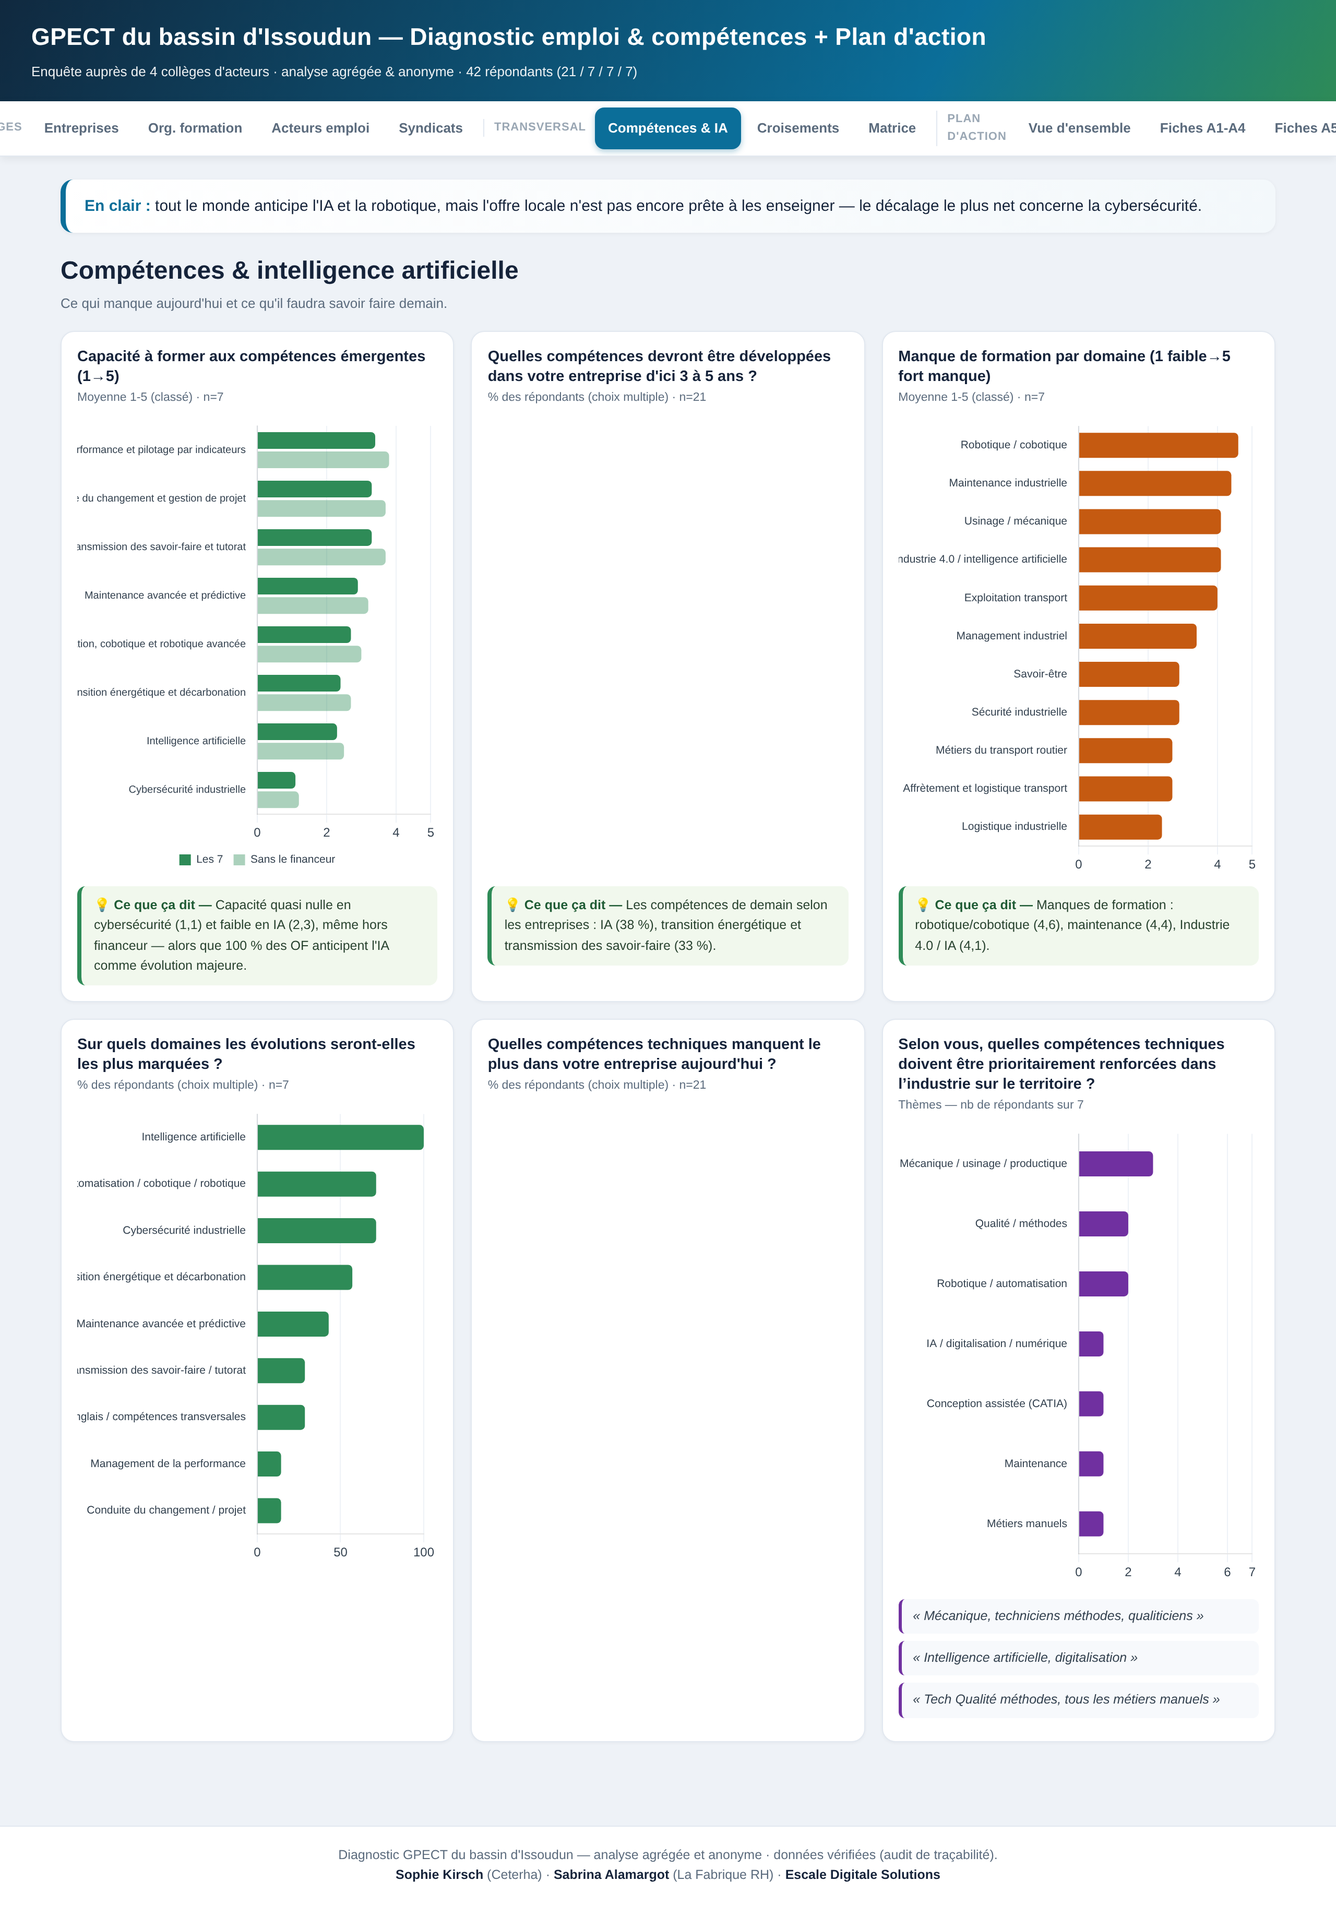
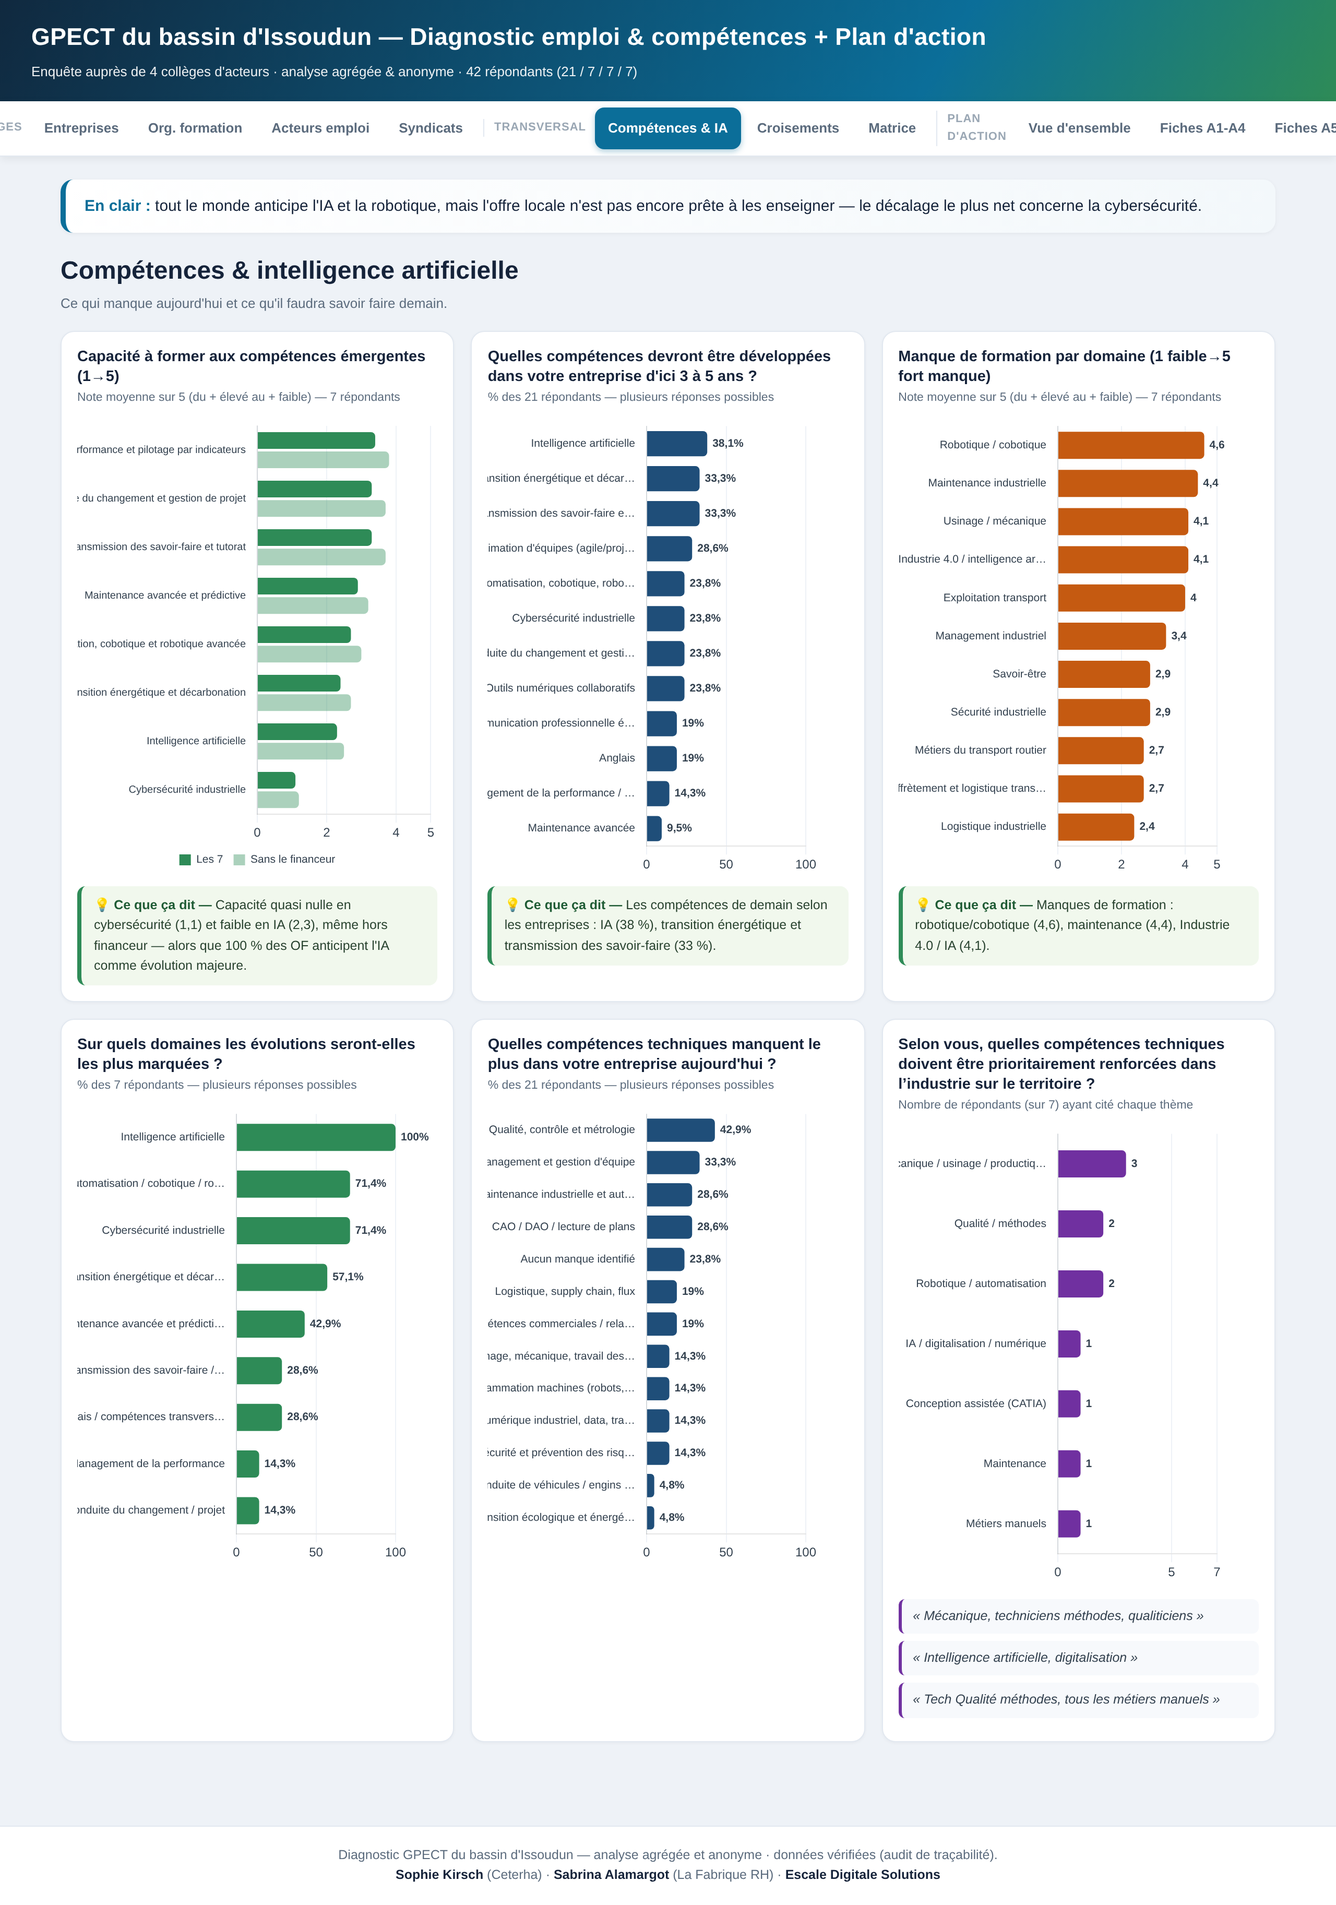
Fix critique dashboard : charts vides + lisibilité
- BUG racine corrigé : id de canvas non uniques entre pages -> collision
  getElementById -> certains graphiques se dessinaient sur le mauvais canvas
  et laissaient des cartes vides. Id désormais uniques (compteur global).
- Lisibilité : valeurs affichées au bout de chaque barre (+ suffixe %),
  dénominateurs explicites partout ("note moyenne sur 5", "% des 21
  répondants", "sur 7"), effectifs dans les légendes des camemberts,
  libellés longs tronqués proprement, tooltips avec intitulé complet
- Contrôle automatique : 0 canvas vide sur les 13 pages

Claude-Session: https://claude.ai/code/session_01DFsapZAeqAuiLmYAQ4kDCJ

diff --git a/analyse/dashboard/dashboard_gpect_issoudun_final.html b/analyse/dashboard/dashboard_gpect_issoudun_final.html
@@ -122,14 +122,19 @@ function Q(c,k){return (SV.donnees_colleges[c]||{}).questions[k];}
 function lbl(s){s=String(s);for(let i=0;i<2;i++)s=s.replace(/^\s*Q[0-9][0-9.]*[a-z]?\s*[—–-]\s*/,'');return s;}
 function shorten(s,n){s=String(s);return s.length>(n||34)?s.slice(0,(n||34)-1)+'…':s;}
 function dim(n){return SV.dimensions_partagees.find(d=>d.dimension.toLowerCase().includes(n));}
-let CQ=[];
+let CQ=[];let _n=0;const nid=()=>'cv'+(++_n);
 function chCanvas(id,tall){return `<div class="chartbox${tall?' tall':''}"><canvas id="${id}"></canvas></div>`;}
+// plugin : affiche la valeur au bout de chaque barre (lisibilité)
+const valLabel={id:'valLabel',afterDatasetsDraw(ch){const ds=ch.data.datasets;if(ds.length>1)return;const ctx=ch.ctx;const meta=ch.getDatasetMeta(0);ctx.save();ctx.font='bold 10.5px -apple-system,sans-serif';ctx.fillStyle='#33414f';
+ meta.data.forEach((bar,i)=>{const v=ds[0].data[i];if(v==null)return;const suf=ch.$suffix||'';
+  if(ch.options.indexAxis==='y'){ctx.textAlign='left';ctx.textBaseline='middle';ctx.fillText(fmt(v)+suf,bar.x+5,bar.y);}
+  else{ctx.textAlign='center';ctx.textBaseline='bottom';ctx.fillText(fmt(v)+suf,bar.x,bar.y-4);}});ctx.restore();}};
 function card(t,nt,body,cm,cls){return `<div class="card ${cls||''}"><h3>${t}</h3>${nt?`<p class="note">${nt}</p>`:''}${body}${cm?`<div class="lec"><b>💡 Ce que ça dit —</b> ${cm}</div>`:''}</div>`;}
 function metricCard(num,lab,small){return `<div class="card metric"><div class="num">${num}</div><div class="lab">${lab}</div>${small?`<small>${small}</small>`:''}</div>`;}
 function uid(c,k){return 'cv_'+c+'_'+k.replace(/[^a-z0-9]/gi,'');}
 // charts
-function hbar(id,labels,data,color,max){new Chart(document.getElementById(id),{type:'bar',data:{labels,datasets:[{data,backgroundColor:color,borderRadius:4,maxBarThickness:24}]},options:{indexAxis:'y',responsive:true,maintainAspectRatio:false,scales:{x:{beginAtZero:true,max:max||undefined,grid:{color:'#eef2f7'}},y:{grid:{display:false},ticks:{autoSkip:false,font:{size:10.5}}}},plugins:{tooltip:{callbacks:{label:c=>' '+fmt(c.parsed.x)}}}}});}
-function vbar(id,labels,data,colors,max){new Chart(document.getElementById(id),{type:'bar',data:{labels,datasets:[{data,backgroundColor:colors,borderRadius:5,maxBarThickness:64}]},options:{responsive:true,maintainAspectRatio:false,scales:{y:{beginAtZero:true,max:max||5,grid:{color:'#eef2f7'}},x:{grid:{display:false}}},plugins:{tooltip:{callbacks:{label:c=>' '+fmt(c.parsed.y)}}}}});}
+function hbar(id,labels,data,color,max,suf){const ch=new Chart(document.getElementById(id),{type:'bar',data:{labels,datasets:[{data,backgroundColor:color,borderRadius:4,maxBarThickness:26}]},options:{indexAxis:'y',responsive:true,maintainAspectRatio:false,layout:{padding:{right:40}},scales:{x:{beginAtZero:true,max:max||undefined,grid:{color:'#eef2f7'}},y:{grid:{display:false},ticks:{autoSkip:false,font:{size:10.5},callback:function(v){const l=this.getLabelForValue(v);return l.length>32?l.slice(0,31)+'…':l;}}}},plugins:{tooltip:{callbacks:{title:items=>items[0].label,label:c=>' '+fmt(c.parsed.x)+(suf||'')}}}},plugins:[valLabel]});ch.$suffix=suf||'';ch.update();}
+function vbar(id,labels,data,colors,max,suf){const ch=new Chart(document.getElementById(id),{type:'bar',data:{labels,datasets:[{data,backgroundColor:colors,borderRadius:5,maxBarThickness:70}]},options:{responsive:true,maintainAspectRatio:false,layout:{padding:{top:18}},scales:{y:{beginAtZero:true,max:max||5,grid:{color:'#eef2f7'}},x:{grid:{display:false}}},plugins:{tooltip:{callbacks:{label:c=>' '+fmt(c.parsed.y)+(suf||'')}}}},plugins:[valLabel]});ch.$suffix=suf||'';ch.update();}
 function dough(id,labels,data,colors){new Chart(document.getElementById(id),{type:'doughnut',data:{labels,datasets:[{data,backgroundColor:colors,borderWidth:2,borderColor:'#fff'}]},options:{responsive:true,maintainAspectRatio:false,cutout:'56%',plugins:{legend:{display:true,position:'bottom',labels:{boxWidth:11,font:{size:10.5}}},tooltip:{callbacks:{label:c=>' '+c.label+' : '+c.parsed}}}}});}
 function radar(id,labels,data,col){new Chart(document.getElementById(id),{type:'radar',data:{labels,datasets:[{data,backgroundColor:col+'2e',borderColor:col,borderWidth:2,pointBackgroundColor:col,pointRadius:3}]},options:{responsive:true,maintainAspectRatio:false,scales:{r:{min:0,max:5,ticks:{stepSize:1,font:{size:9}},pointLabels:{font:{size:9.5}}}},plugins:{tooltip:{callbacks:{label:c=>' '+fmt(c.parsed.r)}}}}});}
 function battChart(id,a,col){const sf=a[0]&&a[0].sans_financeur;
@@ -139,21 +144,21 @@ function verbList(arr,n){const sk=/^(ras|na|n\/a|ne sait pas|non renseign|pas de
  const v=(arr||[]).filter(x=>x&&!sk.test(x.trim())&&x.trim().length>14).slice(0,n);
  return v.length?('<div style="margin-top:8px">'+v.map(x=>`<div class="verb">« ${x} »</div>`).join('')+'</div>'):'';}
 // auto render by type
-function auto(c,k){const d=Q(c,k);if(!d)return '';const cm=COMMENTS[c+'|'+k]||'';const t=d.type,id=uid(c,k),col=COL[c],title=lbl(d.intitule);
- if(t==='echelle_1_5'){const sf=d.sans_financeur?`<br>sans le financeur : <b>${fmt(d.sans_financeur.moyenne)}</b> (n=${d.sans_financeur.n})`:'';
-   return card(title,'Échelle de 1 à 5',`<div class="bigrow"><div class="big">${fmt(d.moyenne)}<span>/5</span></div><div class="bigmeta">médiane ${fmt(d.mediane)} · min ${d.min} · max ${d.max}<br>n=${d.n}${sf}</div></div>`,cm);}
- if(t==='numerique'){const s2=d.sans_plus_gros?`<br>sans le plus gros employeur : <b>${fmt(d.sans_plus_gros.somme)}</b> (méd. ${fmt(d.sans_plus_gros.mediane)})`:'';
-   const nn=d.n_non_numerique_exclus?` · ${d.n_non_numerique_exclus} non chiffrable(s)`:'';
-   return card(title,'Numérique',`<div class="bigrow"><div class="big">${fmt(d.somme)}</div><div class="bigmeta">total · médiane ${fmt(d.mediane)} · n=${d.n}${nn}${s2}</div></div>`,cm);}
- if(t==='choix_unique'){const m=d.modalites;CQ.push(()=>dough(id,m.map(x=>shorten(x.modalite,30)),m.map(x=>x.n),PAL));
-   return card(title,'Répartition · n='+d.n_repondants,chCanvas(id),cm);}
- if(t==='multi_select'){const a=d.modalites.filter(x=>x.n>0);CQ.push(()=>hbar(id,a.map(x=>x.modalite),a.map(x=>x.pct_repondants),col,100));
-   return card(title,'% des répondants (choix multiple) · n='+d.n_repondants,chCanvas(id,a.length>6),cm);}
+function auto(c,k){const d=Q(c,k);if(!d)return '';const cm=COMMENTS[c+'|'+k]||'';const t=d.type,id=nid(),col=COL[c],title=lbl(d.intitule);
+ if(t==='echelle_1_5'){const sf=d.sans_financeur?`<br>sans le financeur : <b>${fmt(d.sans_financeur.moyenne)}</b>/5 (n=${d.sans_financeur.n})`:'';
+   return card(title,'Note moyenne sur 5',`<div class="bigrow"><div class="big">${fmt(d.moyenne)}<span>/5</span></div><div class="bigmeta">médiane ${fmt(d.mediane)} · mini ${d.min} · maxi ${d.max}<br>${d.n} répondants${sf}</div></div>`,cm);}
+ if(t==='numerique'){const s2=d.sans_plus_gros?`<br>sans le plus gros employeur : <b>${fmt(d.sans_plus_gros.somme)}</b> (médiane ${fmt(d.sans_plus_gros.mediane)})`:'';
+   const nn=d.n_non_numerique_exclus?` · ${d.n_non_numerique_exclus} réponse(s) non chiffrable(s)`:'';
+   return card(title,'Total déclaré',`<div class="bigrow"><div class="big">${fmt(d.somme)}</div><div class="bigmeta">total cumulé · médiane ${fmt(d.mediane)} · ${d.n} réponses${nn}${s2}</div></div>`,cm);}
+ if(t==='choix_unique'){const m=d.modalites;CQ.push(()=>dough(id,m.map(x=>shorten(x.modalite,30)+' ('+x.n+')'),m.map(x=>x.n),PAL));
+   return card(title,'Répartition des '+d.n_repondants+' réponses',chCanvas(id),cm);}
+ if(t==='multi_select'){const a=d.modalites.filter(x=>x.n>0);CQ.push(()=>hbar(id,a.map(x=>x.modalite),a.map(x=>x.pct_repondants),col,100,'%'));
+   return card(title,'% des '+d.n_repondants+' répondants — plusieurs réponses possibles',chCanvas(id,a.length>6),cm);}
  if(t==='batterie_echelle_1_5'){const a=(d.classement_par_moyenne||d.items);CQ.push(()=>battChart(id,a,col));
-   return card(title,'Moyenne 1-5 (classé) · n='+(a[0]?a[0].n:''),chCanvas(id,true),cm);}
+   return card(title,'Note moyenne sur 5 (du + élevé au + faible) — '+(a[0]?a[0].n:'')+' répondants',chCanvas(id,true),cm);}
  if(t==='texte_libre_code'){const a=d.themes.filter(x=>x.n>0);CQ.push(()=>hbar(id,a.map(x=>x.theme),a.map(x=>x.n),col,d.n_repondants));
-   return card(title,'Thèmes — nb de répondants sur '+d.n_repondants,chCanvas(id,a.length>6)+verbList(d.verbatims_anonymises,3),cm);}
- if(t==='texte_libre'){const vb=verbList(d.verbatims_anonymises,6);if(!vb&&!cm)return '';return card(title,'Verbatims anonymisés · n='+d.n_repondants,vb||'',cm);}
+   return card(title,'Nombre de répondants (sur '+d.n_repondants+') ayant cité chaque thème',chCanvas(id,a.length>6)+verbList(d.verbatims_anonymises,3),cm);}
+ if(t==='texte_libre'){const vb=verbList(d.verbatims_anonymises,6);if(!vb&&!cm)return '';return card(title,'Verbatims anonymisés · '+d.n_repondants+' réponses',vb||'',cm);}
  return '';}
 // pyramide entreprises (avec/sans Safran)
 function pyrCard(){const p=Q('entreprises','Q4.1_pyramide');const id='cv_pyr';

diff --git a/analyse/scripts/18_build_dashboard_final.py b/analyse/scripts/18_build_dashboard_final.py
@@ -353,14 +353,19 @@ function Q(c,k){return (SV.donnees_colleges[c]||{}).questions[k];}
 function lbl(s){s=String(s);for(let i=0;i<2;i++)s=s.replace(/^\s*Q[0-9][0-9.]*[a-z]?\s*[—–-]\s*/,'');return s;}
 function shorten(s,n){s=String(s);return s.length>(n||34)?s.slice(0,(n||34)-1)+'…':s;}
 function dim(n){return SV.dimensions_partagees.find(d=>d.dimension.toLowerCase().includes(n));}
-let CQ=[];
+let CQ=[];let _n=0;const nid=()=>'cv'+(++_n);
 function chCanvas(id,tall){return `<div class="chartbox${tall?' tall':''}"><canvas id="${id}"></canvas></div>`;}
+// plugin : affiche la valeur au bout de chaque barre (lisibilité)
+const valLabel={id:'valLabel',afterDatasetsDraw(ch){const ds=ch.data.datasets;if(ds.length>1)return;const ctx=ch.ctx;const meta=ch.getDatasetMeta(0);ctx.save();ctx.font='bold 10.5px -apple-system,sans-serif';ctx.fillStyle='#33414f';
+ meta.data.forEach((bar,i)=>{const v=ds[0].data[i];if(v==null)return;const suf=ch.$suffix||'';
+  if(ch.options.indexAxis==='y'){ctx.textAlign='left';ctx.textBaseline='middle';ctx.fillText(fmt(v)+suf,bar.x+5,bar.y);}
+  else{ctx.textAlign='center';ctx.textBaseline='bottom';ctx.fillText(fmt(v)+suf,bar.x,bar.y-4);}});ctx.restore();}};
 function card(t,nt,body,cm,cls){return `<div class="card ${cls||''}"><h3>${t}</h3>${nt?`<p class="note">${nt}</p>`:''}${body}${cm?`<div class="lec"><b>💡 Ce que ça dit —</b> ${cm}</div>`:''}</div>`;}
 function metricCard(num,lab,small){return `<div class="card metric"><div class="num">${num}</div><div class="lab">${lab}</div>${small?`<small>${small}</small>`:''}</div>`;}
 function uid(c,k){return 'cv_'+c+'_'+k.replace(/[^a-z0-9]/gi,'');}
 // charts
-function hbar(id,labels,data,color,max){new Chart(document.getElementById(id),{type:'bar',data:{labels,datasets:[{data,backgroundColor:color,borderRadius:4,maxBarThickness:24}]},options:{indexAxis:'y',responsive:true,maintainAspectRatio:false,scales:{x:{beginAtZero:true,max:max||undefined,grid:{color:'#eef2f7'}},y:{grid:{display:false},ticks:{autoSkip:false,font:{size:10.5}}}},plugins:{tooltip:{callbacks:{label:c=>' '+fmt(c.parsed.x)}}}}});}
-function vbar(id,labels,data,colors,max){new Chart(document.getElementById(id),{type:'bar',data:{labels,datasets:[{data,backgroundColor:colors,borderRadius:5,maxBarThickness:64}]},options:{responsive:true,maintainAspectRatio:false,scales:{y:{beginAtZero:true,max:max||5,grid:{color:'#eef2f7'}},x:{grid:{display:false}}},plugins:{tooltip:{callbacks:{label:c=>' '+fmt(c.parsed.y)}}}}});}
+function hbar(id,labels,data,color,max,suf){const ch=new Chart(document.getElementById(id),{type:'bar',data:{labels,datasets:[{data,backgroundColor:color,borderRadius:4,maxBarThickness:26}]},options:{indexAxis:'y',responsive:true,maintainAspectRatio:false,layout:{padding:{right:40}},scales:{x:{beginAtZero:true,max:max||undefined,grid:{color:'#eef2f7'}},y:{grid:{display:false},ticks:{autoSkip:false,font:{size:10.5},callback:function(v){const l=this.getLabelForValue(v);return l.length>32?l.slice(0,31)+'…':l;}}}},plugins:{tooltip:{callbacks:{title:items=>items[0].label,label:c=>' '+fmt(c.parsed.x)+(suf||'')}}}},plugins:[valLabel]});ch.$suffix=suf||'';ch.update();}
+function vbar(id,labels,data,colors,max,suf){const ch=new Chart(document.getElementById(id),{type:'bar',data:{labels,datasets:[{data,backgroundColor:colors,borderRadius:5,maxBarThickness:70}]},options:{responsive:true,maintainAspectRatio:false,layout:{padding:{top:18}},scales:{y:{beginAtZero:true,max:max||5,grid:{color:'#eef2f7'}},x:{grid:{display:false}}},plugins:{tooltip:{callbacks:{label:c=>' '+fmt(c.parsed.y)+(suf||'')}}}},plugins:[valLabel]});ch.$suffix=suf||'';ch.update();}
 function dough(id,labels,data,colors){new Chart(document.getElementById(id),{type:'doughnut',data:{labels,datasets:[{data,backgroundColor:colors,borderWidth:2,borderColor:'#fff'}]},options:{responsive:true,maintainAspectRatio:false,cutout:'56%',plugins:{legend:{display:true,position:'bottom',labels:{boxWidth:11,font:{size:10.5}}},tooltip:{callbacks:{label:c=>' '+c.label+' : '+c.parsed}}}}});}
 function radar(id,labels,data,col){new Chart(document.getElementById(id),{type:'radar',data:{labels,datasets:[{data,backgroundColor:col+'2e',borderColor:col,borderWidth:2,pointBackgroundColor:col,pointRadius:3}]},options:{responsive:true,maintainAspectRatio:false,scales:{r:{min:0,max:5,ticks:{stepSize:1,font:{size:9}},pointLabels:{font:{size:9.5}}}},plugins:{tooltip:{callbacks:{label:c=>' '+fmt(c.parsed.r)}}}}});}
 function battChart(id,a,col){const sf=a[0]&&a[0].sans_financeur;
@@ -370,21 +375,21 @@ function verbList(arr,n){const sk=/^(ras|na|n\/a|ne sait pas|non renseign|pas de
  const v=(arr||[]).filter(x=>x&&!sk.test(x.trim())&&x.trim().length>14).slice(0,n);
  return v.length?('<div style="margin-top:8px">'+v.map(x=>`<div class="verb">« ${x} »</div>`).join('')+'</div>'):'';}
 // auto render by type
-function auto(c,k){const d=Q(c,k);if(!d)return '';const cm=COMMENTS[c+'|'+k]||'';const t=d.type,id=uid(c,k),col=COL[c],title=lbl(d.intitule);
- if(t==='echelle_1_5'){const sf=d.sans_financeur?`<br>sans le financeur : <b>${fmt(d.sans_financeur.moyenne)}</b> (n=${d.sans_financeur.n})`:'';
-   return card(title,'Échelle de 1 à 5',`<div class="bigrow"><div class="big">${fmt(d.moyenne)}<span>/5</span></div><div class="bigmeta">médiane ${fmt(d.mediane)} · min ${d.min} · max ${d.max}<br>n=${d.n}${sf}</div></div>`,cm);}
- if(t==='numerique'){const s2=d.sans_plus_gros?`<br>sans le plus gros employeur : <b>${fmt(d.sans_plus_gros.somme)}</b> (méd. ${fmt(d.sans_plus_gros.mediane)})`:'';
-   const nn=d.n_non_numerique_exclus?` · ${d.n_non_numerique_exclus} non chiffrable(s)`:'';
-   return card(title,'Numérique',`<div class="bigrow"><div class="big">${fmt(d.somme)}</div><div class="bigmeta">total · médiane ${fmt(d.mediane)} · n=${d.n}${nn}${s2}</div></div>`,cm);}
- if(t==='choix_unique'){const m=d.modalites;CQ.push(()=>dough(id,m.map(x=>shorten(x.modalite,30)),m.map(x=>x.n),PAL));
-   return card(title,'Répartition · n='+d.n_repondants,chCanvas(id),cm);}
- if(t==='multi_select'){const a=d.modalites.filter(x=>x.n>0);CQ.push(()=>hbar(id,a.map(x=>x.modalite),a.map(x=>x.pct_repondants),col,100));
-   return card(title,'% des répondants (choix multiple) · n='+d.n_repondants,chCanvas(id,a.length>6),cm);}
+function auto(c,k){const d=Q(c,k);if(!d)return '';const cm=COMMENTS[c+'|'+k]||'';const t=d.type,id=nid(),col=COL[c],title=lbl(d.intitule);
+ if(t==='echelle_1_5'){const sf=d.sans_financeur?`<br>sans le financeur : <b>${fmt(d.sans_financeur.moyenne)}</b>/5 (n=${d.sans_financeur.n})`:'';
+   return card(title,'Note moyenne sur 5',`<div class="bigrow"><div class="big">${fmt(d.moyenne)}<span>/5</span></div><div class="bigmeta">médiane ${fmt(d.mediane)} · mini ${d.min} · maxi ${d.max}<br>${d.n} répondants${sf}</div></div>`,cm);}
+ if(t==='numerique'){const s2=d.sans_plus_gros?`<br>sans le plus gros employeur : <b>${fmt(d.sans_plus_gros.somme)}</b> (médiane ${fmt(d.sans_plus_gros.mediane)})`:'';
+   const nn=d.n_non_numerique_exclus?` · ${d.n_non_numerique_exclus} réponse(s) non chiffrable(s)`:'';
+   return card(title,'Total déclaré',`<div class="bigrow"><div class="big">${fmt(d.somme)}</div><div class="bigmeta">total cumulé · médiane ${fmt(d.mediane)} · ${d.n} réponses${nn}${s2}</div></div>`,cm);}
+ if(t==='choix_unique'){const m=d.modalites;CQ.push(()=>dough(id,m.map(x=>shorten(x.modalite,30)+' ('+x.n+')'),m.map(x=>x.n),PAL));
+   return card(title,'Répartition des '+d.n_repondants+' réponses',chCanvas(id),cm);}
+ if(t==='multi_select'){const a=d.modalites.filter(x=>x.n>0);CQ.push(()=>hbar(id,a.map(x=>x.modalite),a.map(x=>x.pct_repondants),col,100,'%'));
+   return card(title,'% des '+d.n_repondants+' répondants — plusieurs réponses possibles',chCanvas(id,a.length>6),cm);}
  if(t==='batterie_echelle_1_5'){const a=(d.classement_par_moyenne||d.items);CQ.push(()=>battChart(id,a,col));
-   return card(title,'Moyenne 1-5 (classé) · n='+(a[0]?a[0].n:''),chCanvas(id,true),cm);}
+   return card(title,'Note moyenne sur 5 (du + élevé au + faible) — '+(a[0]?a[0].n:'')+' répondants',chCanvas(id,true),cm);}
  if(t==='texte_libre_code'){const a=d.themes.filter(x=>x.n>0);CQ.push(()=>hbar(id,a.map(x=>x.theme),a.map(x=>x.n),col,d.n_repondants));
-   return card(title,'Thèmes — nb de répondants sur '+d.n_repondants,chCanvas(id,a.length>6)+verbList(d.verbatims_anonymises,3),cm);}
- if(t==='texte_libre'){const vb=verbList(d.verbatims_anonymises,6);if(!vb&&!cm)return '';return card(title,'Verbatims anonymisés · n='+d.n_repondants,vb||'',cm);}
+   return card(title,'Nombre de répondants (sur '+d.n_repondants+') ayant cité chaque thème',chCanvas(id,a.length>6)+verbList(d.verbatims_anonymises,3),cm);}
+ if(t==='texte_libre'){const vb=verbList(d.verbatims_anonymises,6);if(!vb&&!cm)return '';return card(title,'Verbatims anonymisés · '+d.n_repondants+' réponses',vb||'',cm);}
  return '';}
 // pyramide entreprises (avec/sans Safran)
 function pyrCard(){const p=Q('entreprises','Q4.1_pyramide');const id='cv_pyr';
